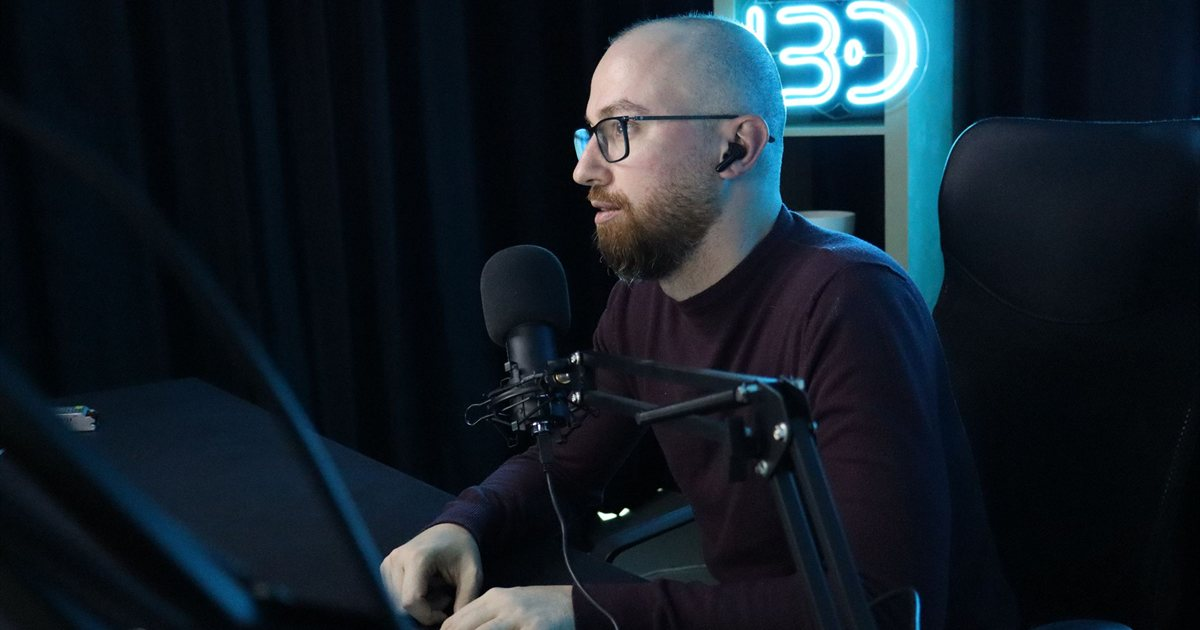
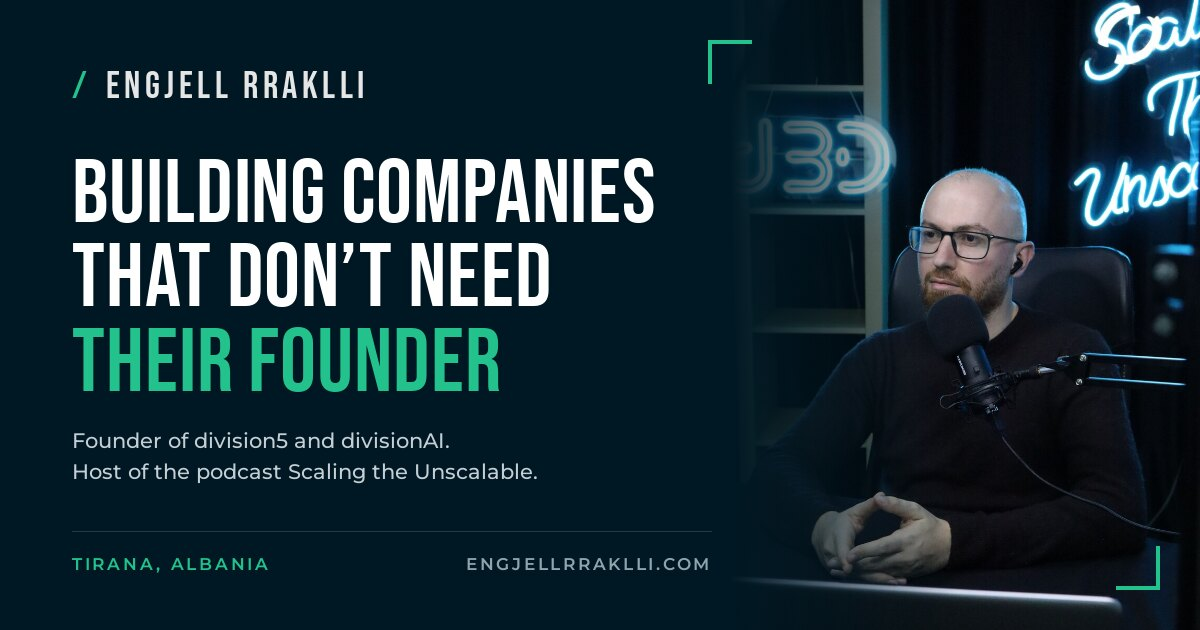
feat(seo): share card with name and the one idea [skip ci]
The default share image was a bare studio photo with no name or line on
it. New 1200x630 card: name, 'Building companies that don't need their
founder', ventures and podcast, the homepage photo, in the site's
navy/mint/Bebas look. New filename so LinkedIn, Facebook and WhatsApp
fetch it instead of their cached copy; the old path gets the new picture
too. Journal posts keep their generated /og/journal cards.

diff --git a/lib/metadata.ts b/lib/metadata.ts
@@ -54,7 +54,7 @@ export function createMetadata({
       pageImage = `${siteUrl}/${image}`;
     }
   } else {
-    pageImage = `${siteUrl}/og-image.jpg`;
+    pageImage = `${siteUrl}/og-image-2026.jpg`;
   }
 
   return {
